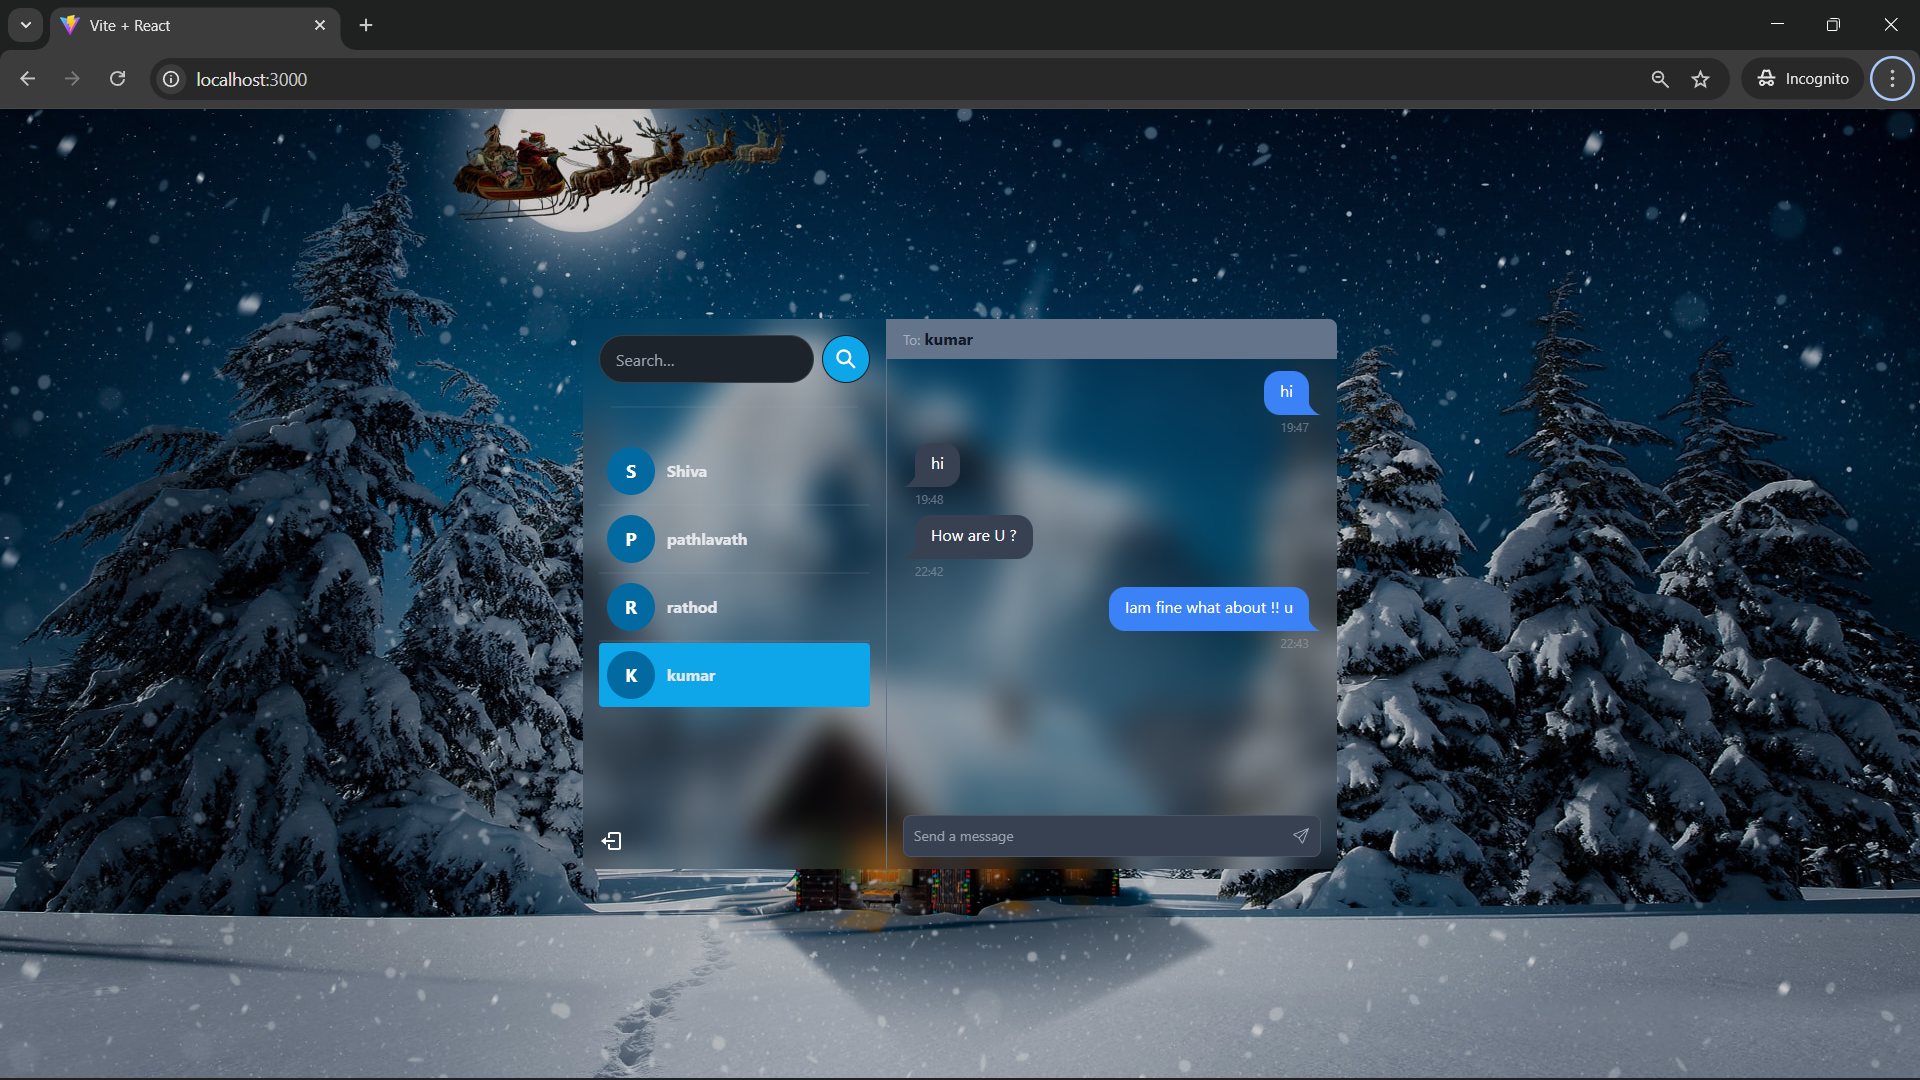
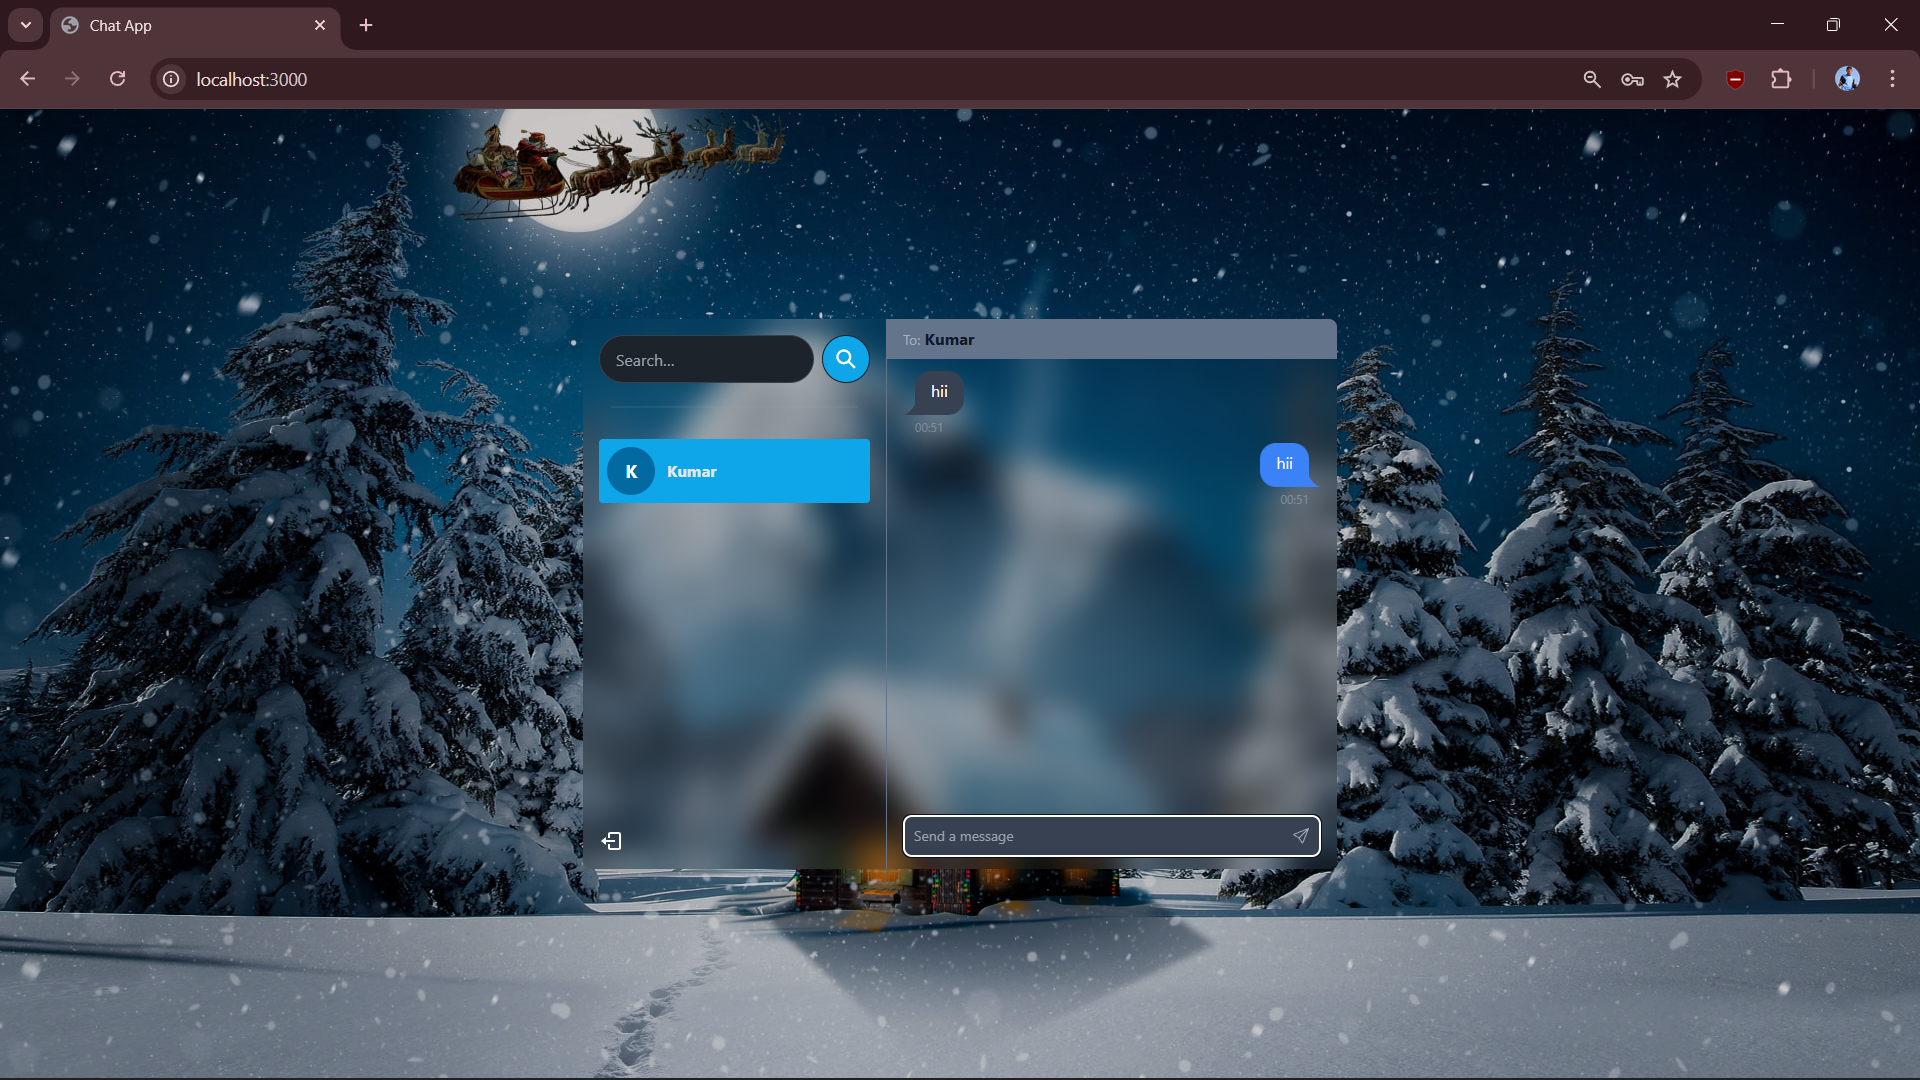
Final fixes before deployment

diff --git a/frontend/index.html b/frontend/index.html
@@ -1,0 +1,12 @@
+<!DOCTYPE html>
+<html lang="en">
+  <head>
+    <meta charset="UTF-8" />
+    <meta name="viewport" content="width=device-width, initial-scale=1.0" />
+    <title>Chat App</title>
+  </head>
+  <body>
+    <div id="root"></div>
+    <script type="module" src="/src/main.jsx"></script>
+  </body>
+</html>
